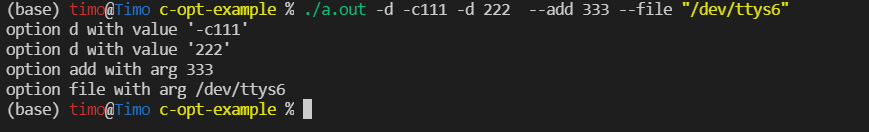
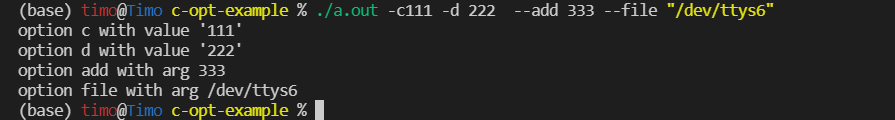
update

Changed region(s): [[0.0, 0.0, 0.9321, 1.0]]

diff --git a/README.md b/README.md
@@ -20,7 +20,7 @@ gcc opt_example.c
 
 ```shell
 gcc opt_long_example.c
-./a.out -d -c111 -d 222  --add 333 --file "/dev/ttys6"
+./a.out -c111 -d 222  --add 333 --file "/dev/ttys6"  
 ```
 
 ![](getopt_long.png)
